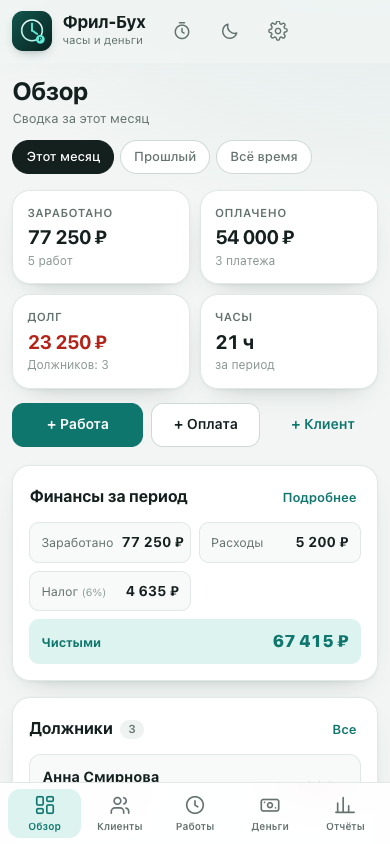
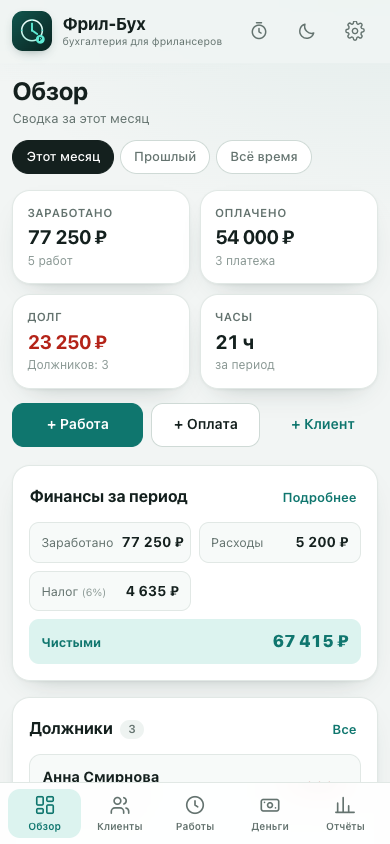
Подзаголовок: бухгалтерия для фрилансеров

diff --git a/index.html b/index.html
@@ -3,7 +3,7 @@
 <head>
   <meta charset="utf-8" />
   <meta name="viewport" content="width=device-width, initial-scale=1, viewport-fit=cover" />
-  <title>Фрил-Бух — часы, деньги и проекты</title>
+  <title>Фрил-Бух — бухгалтерия для фрилансеров</title>
   <meta name="description" content="Простая бухгалтерия для фрилансера: клиенты, проекты, часы, оплаты, расходы и отчёты. Данные хранятся на устройстве." />
   <meta name="theme-color" content="#f4f6f5" />
   <link rel="manifest" href="manifest.webmanifest" />
@@ -44,7 +44,7 @@
       <img class="brand-logo" src="icons/icon.svg" alt="" width="44" height="44" />
       <span class="brand-text">
         <strong>Фрил-Бух</strong>
-        <span>часы и деньги</span>
+        <span>бухгалтерия для фрилансеров</span>
       </span>
     </a>
 

diff --git a/styles.css b/styles.css
@@ -938,6 +938,7 @@ html[data-lock-pending="1"] #lockScreen[hidden] { display: flex !important; }
 }
 
 @media (max-width: 559px) {
+  .brand-text span { font-size: 10.5px; line-height: 1.15; white-space: normal; overflow: visible; text-overflow: clip; }
   .view-head { align-items: flex-start; }
   .view-head-actions { gap: 4px; }
   .view-head-actions .btn { padding-inline: 10px; }

diff --git a/sw.js b/sw.js
@@ -1,5 +1,5 @@
 /* Офлайн-кэш приложения «Фрил-Бух». */
-const CACHE = 'frilbuh-v3';
+const CACHE = 'frilbuh-v4';
 const ASSETS = [
   './',
   './index.html',
